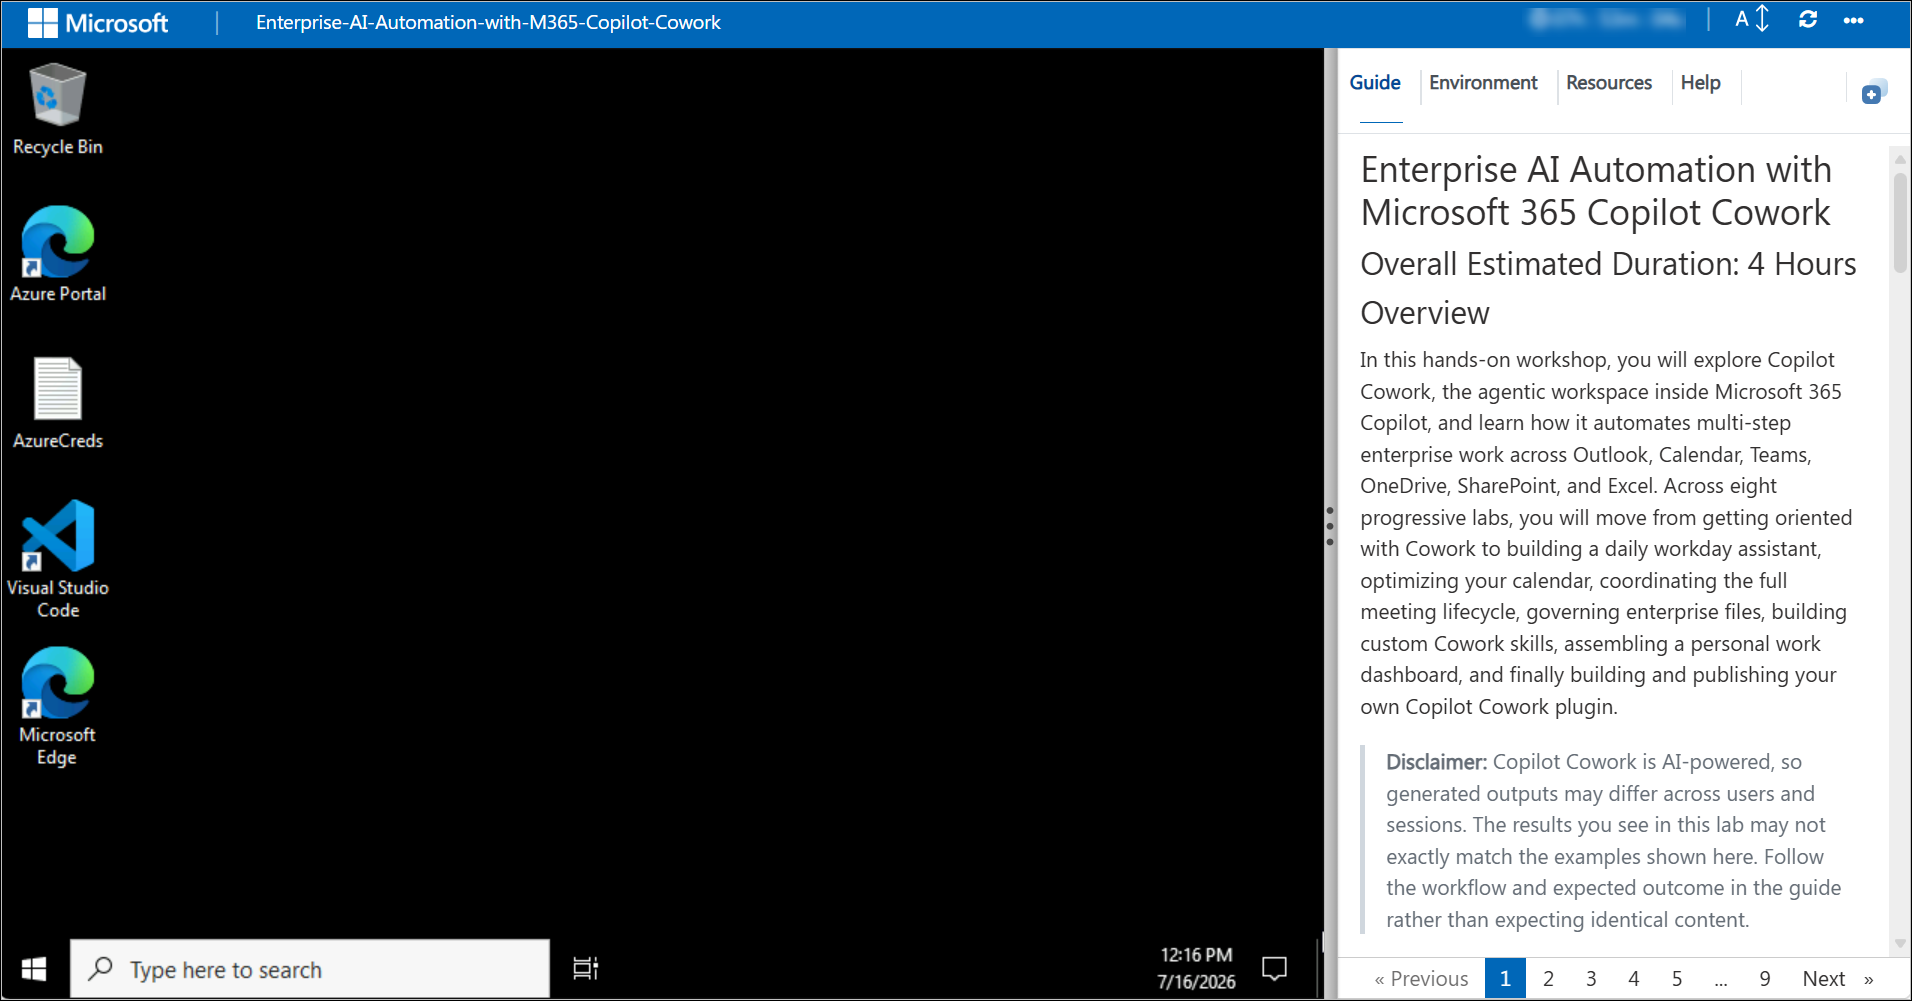
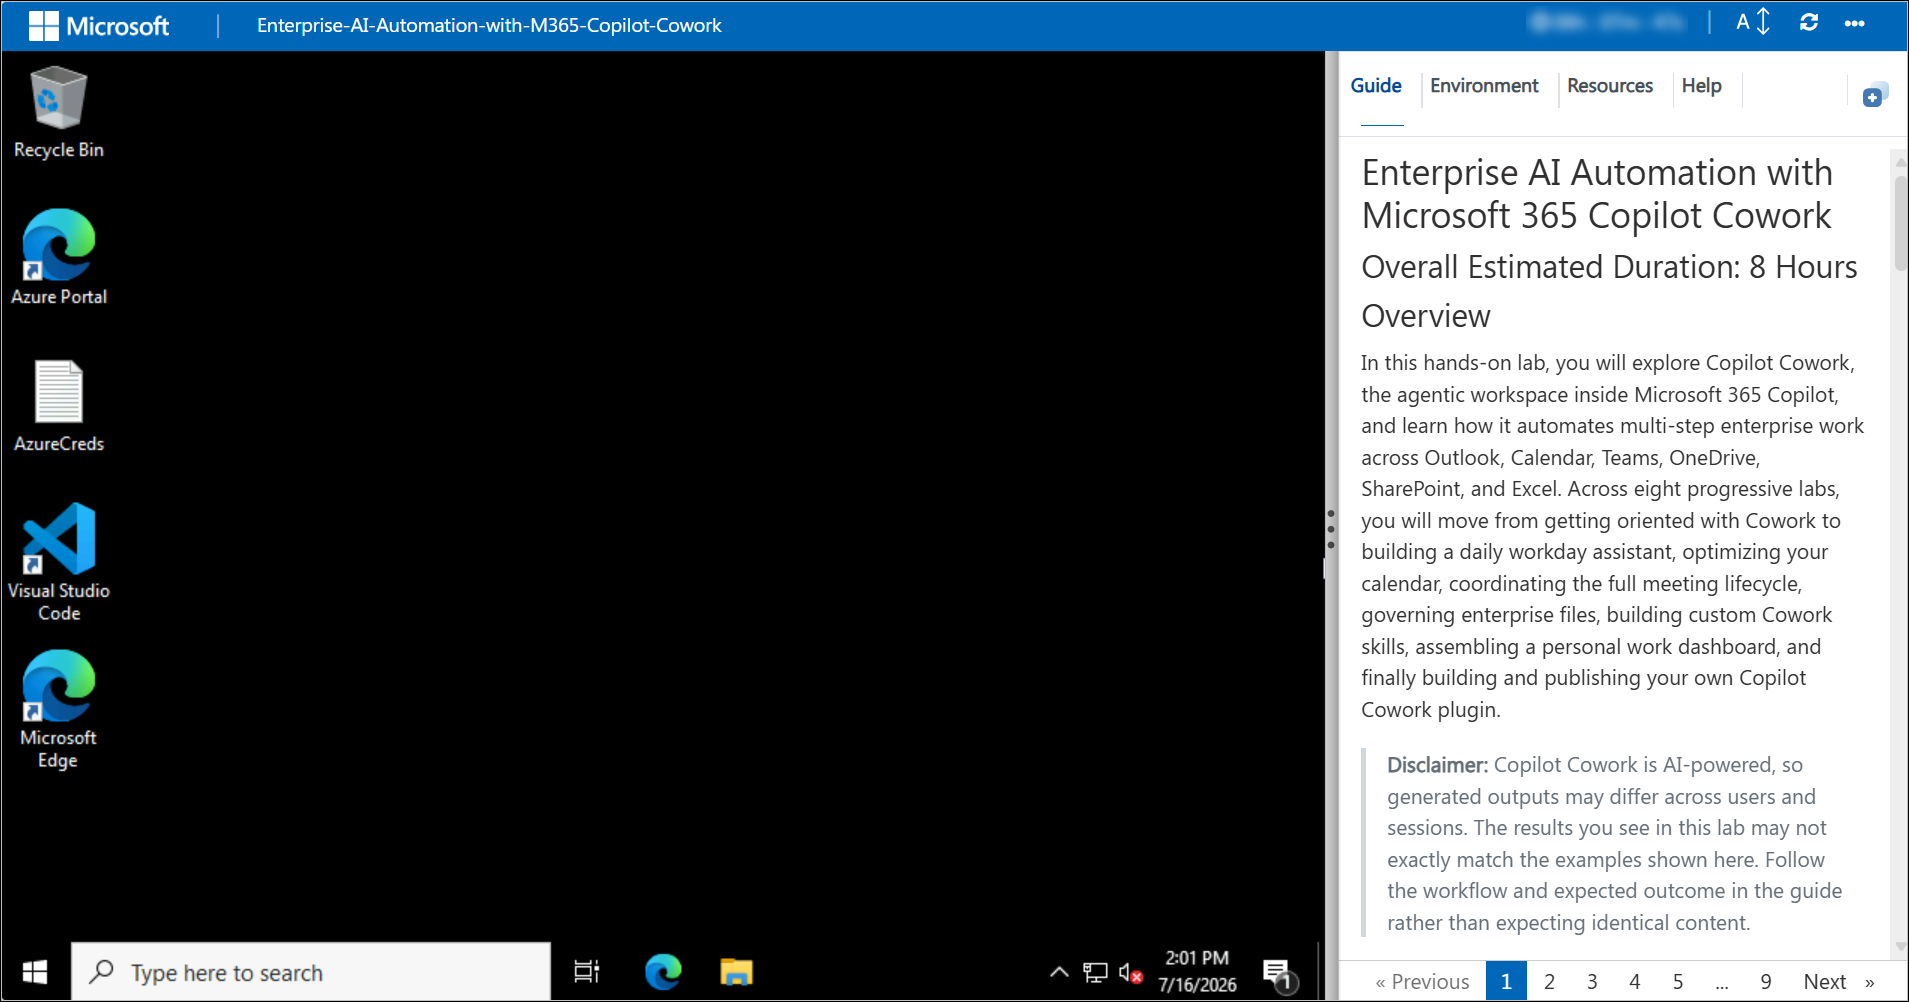
Updated

diff --git a/Labguides/Lab5/Lab 5.md b/Labguides/Lab5/Lab 5.md
@@ -1,6 +1,6 @@
 # Lab 5 – Intelligent File Organizer
 
-## Estimated Duration: 45 Minutes
+### Estimated Duration: 45 Minutes
 
 ## Overview
 
@@ -16,55 +16,6 @@ In this lab, you will perform the following:
 - Task 3: AI-Generated Excel Tracking and Teams Reporting
 - Task 4: Project Orion Documents Reorganisation
 - Task 5: Reorganize the Project Orion Folder into Department-Based Subfolders
-
-# Lab Prerequisites
-
-Complete the following setup steps before starting the lab (estimated:
-15–20 minutes):
-
-## Required Microsoft 365 Environment
-
-- Microsoft 365 Copilot with Copilot Cowork enabled
-
-- Microsoft Teams with permission to post to channels
-
-- OneDrive for Business and SharePoint Online
-
-- Microsoft Excel (Web or Desktop)
-
-- Microsoft Graph-connected M365 tenant
-
-## Required OneDrive Folder Structure
-
-Create a Lab Files folder in OneDrive with these subfolders:
-
-- Lab Files / Sales — upload provided sales and customer-facing documents
-
-- Lab Files / Finance — upload budgeting and financial analysis documents
-
-- Lab Files / Project Orion — upload Project Orion requirements, minutes,
-  and evaluation documents
-
-- Lab Files / Shared Files — configure 'Anyone with the link' sharing on
-  at least 3 files
-
-- Lab Files / Archive Candidates — optional pre-populated stale
-  documents
-
-## Required Teams Environment
-
-- Team: Contoso Operations (or equivalent)
-
-- Channel: General (Standard) — target for Exercise 3 Teams post
-
-Automated File Classification and Renaming
-
-Duration: 8 minutes | Difficulty: Beginner–Intermediate
-
-Use AI to classify all files in your OneDrive Lab Files folder, propose
-a YYYY-MM-DD_Topic_DocType renaming scheme, preview the full mapping,
-then approve and execute the batch rename into topic-organised
-subfolders.
 
 ## Task 1: Open Copilot Cowork and Submit Classification Prompt
 

diff --git a/Labguides/Lab6/Lab 6.md b/Labguides/Lab6/Lab 6.md
@@ -1,6 +1,6 @@
 # Lab 6 – Building Custom Cowork Skills
 
-## Estimated Duration: 90 minutes
+### Estimated Duration: 90 minutes
 
 ## Overview
 
@@ -19,15 +19,6 @@ In this lab, you will perform the following:
 - Task 7: Run the Project Status Brief and Post to a Teams Channel
 - Task 8: Post the Project Status Brief to a Teams Channel
 - Task 9: Inspect, Edit, Download, and Delete Skills
-
-# Before You Start: What Is a Custom Skill?
-
-A Custom Skill is a saved workflow Cowork follows whenever you call it
-by name. You describe what you want once, Cowork builds and saves it,
-and from then on one sentence triggers the full workflow automatically.
-
-> [!NOTE]
-> The **Skill Builder** is fully conversational. Instead of filling out forms or writing code, simply describe the skill you want to create. Copilot Cowork asks follow-up questions, gathers the required information, and generates the skill automatically.
 
 ## Task 1: Design Your Skill on Paper First
 

diff --git a/Labguides/Lab8/Lab 8.md b/Labguides/Lab8/Lab 8.md
@@ -1,6 +1,6 @@
 # Lab 8: Build and Publish a Custom Microsoft 365 Copilot Cowork Plugin
 
-**Estimated Duration:** 60 minutes
+### Estimated Duration: 60 minutes
 
 ## Overview
 Organizations can extend Microsoft 365 Copilot beyond its built-in capabilities by developing custom plugins that integrate enterprise knowledge, business processes, and external services. Using Copilot Cowork Plugins and the Model Context Protocol (MCP), developers can securely connect Microsoft 365 Copilot to external data sources, enabling users to retrieve live information and perform specialized tasks through natural language.
@@ -19,8 +19,6 @@ After completing this lab, you will be able to:
 - Test the plugin by executing natural-language financial research queries powered by the SEC EDGAR Remote MCP Server.
 
 ## Task 1 - Review Plugins and Skills in Cowork
-
-### **Objective**
 
 Verify that Microsoft 365 Copilot and Copilot Cowork are available and
 ready for plugin development.

diff --git a/Labguides/Lab1/Lab1.md b/Labguides/Lab1/Lab1.md
@@ -1,6 +1,6 @@
 # Lab 1: Getting Started with Copilot Cowork
 
-## Estimated Duration: 75 Minutes
+### Estimated Duration: 75 Minutes
 
 ## Overview
 In this hands-on lab, you will get oriented to Copilot Cowork, the agentic workspace inside Microsoft 365 Copilot. Unlike traditional Copilot Chat, where you ask a single question and receive a single answer, Cowork can plan and carry out multi-step tasks on your behalf — reading your emails, checking your calendar, working with files, and delivering a finished result, all in one go. You will sign in to Microsoft 365, tour the Cowork home screen, generate sample emails and calendar events in Outlook, upload sample files to OneDrive, create a team in Microsoft Teams, and run your first tasks using starter tiles, typed prompts, and voice commands. You will also learn how to add context to a task, review task history and scheduled tasks, and explore the Customize area where Cowork's capabilities can be extended with plugins and skills.
@@ -18,8 +18,6 @@ In this lab, you will perform the following:
 - Task 6: Use the + Menu to Add Context to a Task
 - Task 7: Explore Task History, Scheduled Tasks, and Task Ideas
 - Task 8: Explore the Customize Area
-
----
 
 ## Task 1: Sign In and Explore the Cowork Home Screen
 

diff --git a/Labguides/Lab2/Lab 2.md b/Labguides/Lab2/Lab 2.md
@@ -1,6 +1,6 @@
 # Lab 2: Daily Workday Assistant
 
-## Estimated Duration: 45 Minutes
+### Estimated Duration: 45 Minutes
 
 ## Overview
 In this hands-on lab, you will use Copilot Cowork to build a personalized daily workday assistant that reads your calendar, summarizes important emails, and extracts tasks and follow-ups automatically - all from a single prompt. Copilot Cowork is the agentic workspace inside Microsoft 365 Copilot: instead of one question and one answer, it takes multi-step actions across your apps, reading your Outlook calendar, searching your inbox, scanning Teams messages, and creating tasks in Microsoft To Do within a single conversation. As you work through this lab, watch the Workspace panel on the right, where Cowork lists the Steps it is completing and the Skills it activates for each task - Daily Briefing, Calendar Management, Email Triage, and Task Extraction. This lab builds on the sample emails and calendar events created in Lab 1.
@@ -13,8 +13,6 @@ In this lab, you will perform the following:
 - Task 3: Summarize Important Emails and Pending Actions
 - Task 4: Extract Tasks and Follow-up Items
 - Task 5: Draft and Refine an Email Reply (Optional)
-
----
 
 ## Task 1: Prepare a Personalized Workday Briefing
 

diff --git a/Labguides/Lab3/Lab 3.md b/Labguides/Lab3/Lab 3.md
@@ -1,6 +1,6 @@
 # Lab 3: AI-Powered Calendar Optimization
 
-## Estimated Duration: 60 minutes
+### Estimated Duration: 60 minutes
 
 ## Overview
 In this hands-on lab, you will use Copilot Cowork - the agentic layer of Microsoft 365 Copilot - to take control of your calendar. Rather than manually hunting for scheduling conflicts or remembering which meetings need agendas, you will instruct Cowork in plain language and let it handle the work across Outlook Calendar and Microsoft Teams. You will detect and resolve real calendar conflicts, schedule a meeting that satisfies multiple constraints at once, test how Cowork handles an impossible request, apply executive-style standing rules across an entire week, and automate a full out-of-office vacation handoff, including a recurring scheduled check that runs automatically going forward. Throughout the lab, watch the Workspace panel on the right, where Cowork proposes its plan and waits for your approval before making any calendar or email changes - a human-in-the-loop design that matters most for bulk edits.
@@ -11,8 +11,6 @@ In this lab, you will perform the following:
 - Task 1: Detect and Resolve Calendar Conflicts and Schedule Meetings Intelligently
 - Task 2: Apply Executive-Style Standing Rules to Your Calendar
 - Task 3: Automate an Out-of-Office Vacation Handoff
-
----
 
 ## Task 1: Detect Calendar Conflicts and Schedule Meetings Intelligently
 

diff --git a/Labguides/Lab4/Lab4.md b/Labguides/Lab4/Lab4.md
@@ -1,6 +1,6 @@
 # Lab 4 – Executive Meeting Coordinator
 
-## Estimated Duration: 45 minutes
+### Estimated Duration: 45 minutes
 
 ## Overview
 

diff --git a/Labguides/Lab7/Lab 7.md b/Labguides/Lab7/Lab 7.md
@@ -1,6 +1,6 @@
 # Lab 7: Building a Personal Work Dashboard with Microsoft Copilot Cowork
 
-**Estimated Duration:** 60 minutes
+### Estimated Duration: 60 minutes
 
 ## Overview
 Modern knowledge workers spend a significant amount of time switching between Outlook, Teams, Calendar, and OneDrive to identify priorities and track ongoing work. Microsoft Copilot Cowork enables users to automate these repetitive activities by orchestrating Microsoft Graph data, generating personalized outputs, and scheduling recurring tasks that continuously refresh with the latest information.